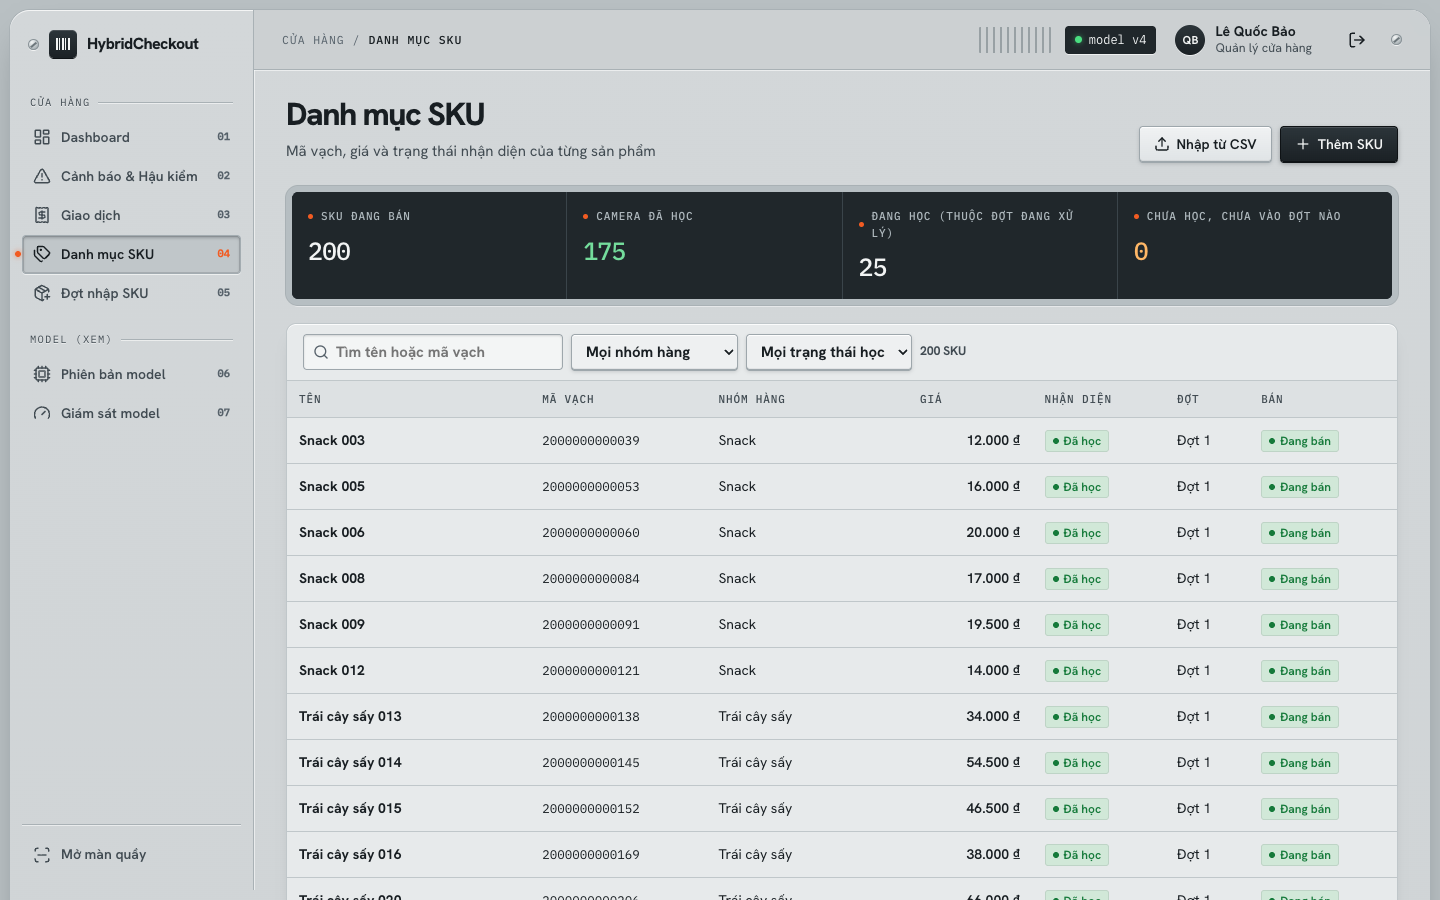
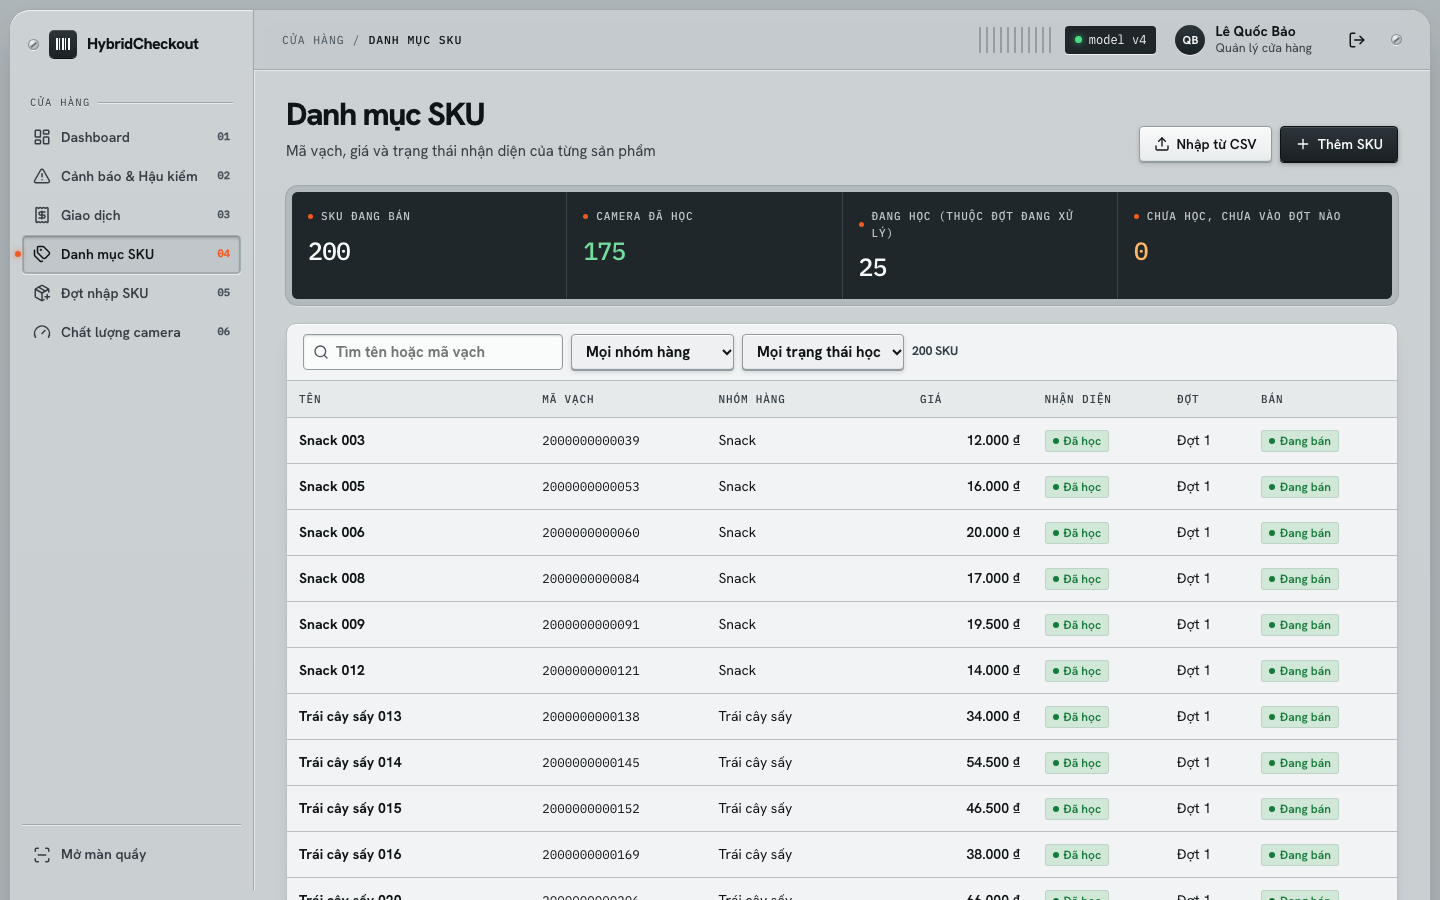
chore: update docs + fe

Changed region(s): [[0.0312, 0.3422, 0.125, 0.4667], [0.5, 0.3733, 0.6875, 0.4044], [0.6875, 0.9956, 0.7188, 1.0]]

diff --git a/frontend/src/styles/global.css b/frontend/src/styles/global.css
@@ -7,29 +7,29 @@
   --font-mono: "IBM Plex Mono", ui-monospace, SFMono-Regular, Menlo, monospace;
 
   /* Chassis materials */
-  --outer: #b9c0c3;
-  --chassis: #cbd0d2;
-  --raised: #e7eaeb;
-  --well: #b6bec2;
+  --outer: #adb5b9;
+  --chassis: #c8cdd0;
+  --raised: #f1f3f4;
+  --well: #b2babe;
   --field: #20272b;
-  --on-field: #f2f4f4;
-  --on-field-muted: #aeb8bd;
+  --on-field: #fafbfb;
+  --on-field-muted: #c0c8cc;
   --accent: #f15b22;
-  --edge: #9ea7ac;
-  --groove: #a9b1b5;
+  --edge: #929ca1;
+  --groove: #9fa8ad;
 
   --bg: var(--chassis);
   --surface: var(--raised);
-  --surface-2: #dde1e3;
-  --border: #c0c7ca;
+  --surface-2: #e7eaeb;
+  --border: #b8c0c4;
   --border-strong: var(--edge);
-  --text: #181e22;
-  --text-2: #414b52;
-  --text-3: #56616a;
+  --text: #0f1417;
+  --text-2: #343e44;
+  --text-3: #48535b;
 
   --primary: var(--field);
   --primary-hover: #2c353a;
-  --primary-soft: #d6dbdd;
+  --primary-soft: #dfe3e5;
 
   --ok: #157a3a;
   --ok-soft: #d1e8d8;
@@ -39,7 +39,7 @@
   --danger-soft: #f3d4cf;
   --info: #1e48c2;
   --info-soft: #d5dff2;
-  --neutral-soft: #d6dbdd;
+  --neutral-soft: #dfe3e5;
 
   --box-match: #16a34a;
   --box-alert: #dc2626;
@@ -49,7 +49,7 @@
 
   --radius: 10px;
   --radius-sm: 4px;
-  --key: linear-gradient(180deg, #f0f2f3, #e0e4e6);
+  --key: linear-gradient(180deg, #f9fafa, #e9eced);
   --key-shadow: inset 0 1px 0 rgb(255 255 255 / 95%), inset 0 -1px 0 rgb(24 30 34 / 6%), 0 1px 0 var(--edge), 0 2px 4px rgb(24 30 34 / 16%);
   --key-shadow-hover: inset 0 1px 0 rgb(255 255 255 / 95%), inset 0 -1px 0 rgb(24 30 34 / 6%), 0 2px 0 var(--edge), 0 4px 8px rgb(24 30 34 / 18%);
   --pressed: inset 0 2px 3px rgb(24 30 34 / 26%), inset 0 0 0 1px rgb(24 30 34 / 14%), 0 1px 0 rgb(255 255 255 / 60%);
@@ -129,7 +129,7 @@ button, input, select, textarea { font: inherit; color: inherit; }
 /* Inputs: shallow wells */
 .input, .select {
   height: 36px; padding: 0 10px; border-radius: var(--radius-sm);
-  border: 1px solid var(--edge); background: #f3f5f5; min-width: 0;
+  border: 1px solid var(--edge); background: #fafbfb; min-width: 0;
   box-shadow: inset 0 1px 2px rgb(24 30 34 / 16%);
 }
 .select { background-color: #eef0f1; box-shadow: var(--key-shadow); }
@@ -168,7 +168,7 @@ table.table { width: 100%; border-collapse: collapse; }
 .table tbody tr:last-child td { border-bottom: 0; }
 .table td.num { font-weight: 600; }
 .table tr.clickable { cursor: pointer; }
-.table tr.clickable:hover td { background: #dfe3e5; }
+.table tr.clickable:hover td { background: #e7eaeb; }
 .table tr.clickable:hover td:first-child { box-shadow: inset 3px 0 0 var(--accent); }
 .table a { text-decoration: none; }
 .table a:hover { text-decoration: underline; }
@@ -229,7 +229,7 @@ table.table { width: 100%; border-collapse: collapse; }
 
 /* Housing: the app sits in one rounded chassis */
 .housing {
-  margin: 10px; border-radius: 20px; background: linear-gradient(180deg, #d3d7d9, #c8cdcf 60%, #c4c9cb);
+  margin: 10px; border-radius: 20px; background: linear-gradient(180deg, #ccd1d4, #c1c7ca 60%, #bcc2c5);
   box-shadow: inset 0 1px 0 rgb(255 255 255 / 75%), 0 0 0 1px var(--groove), 0 18px 40px -16px rgb(24 30 34 / 45%);
 }
 
@@ -242,7 +242,7 @@ table.table { width: 100%; border-collapse: collapse; }
 }
 .brand { display: flex; align-items: center; gap: 10px; font-weight: 800; font-size: 16px; letter-spacing: -0.035em; color: var(--text); }
 .brand-mark { width: 28px; height: 28px; border-radius: 5px; background: linear-gradient(180deg, #2c353a, #1b2125); display: grid; place-items: center; flex-shrink: 0; box-shadow: inset 0 1px 0 rgb(255 255 255 / 14%), 0 1px 0 #0e1215; }
-.brand-mark i { display: block; width: 14px; height: 12px; background: repeating-linear-gradient(90deg, #f2f4f4 0 2px, transparent 2px 3px, #f2f4f4 3px 4px, transparent 4px 6px); }
+.brand-mark i { display: block; width: 14px; height: 12px; background: repeating-linear-gradient(90deg, var(--on-field) 0 2px, transparent 2px 3px, var(--on-field) 3px 4px, transparent 4px 6px); }
 .sidebar .head { display: flex; align-items: center; gap: 10px; padding: 4px 6px 18px; }
 .sidebar .group { font-family: var(--font-mono); font-size: 10.5px; text-transform: uppercase; letter-spacing: .12em; color: var(--text-2); text-shadow: 0 1px 0 rgb(255 255 255 / 60%); padding: 16px 8px 7px; display: flex; align-items: center; gap: 8px; }
 .sidebar .group::after { content: ""; flex: 1; height: 1px; background: var(--groove); box-shadow: 0 1px 0 rgb(255 255 255 / 55%); }
@@ -258,7 +258,7 @@ table.table { width: 100%; border-collapse: collapse; }
 .sidebar a.active::before { content: ""; position: absolute; left: -8px; top: 50%; width: 6px; height: 6px; margin-top: -3px; border-radius: 50%; background: var(--accent); box-shadow: 0 0 6px rgb(241 91 34 / 80%); }
 .sidebar .foot { border-top: 1px solid var(--groove); box-shadow: inset 0 1px 0 rgb(255 255 255 / 55%); padding-top: 10px; margin-top: 8px; display: flex; flex-direction: column; gap: 10px; }
 .topbar {
-  height: 60px; background: rgb(203 208 210 / 92%); backdrop-filter: blur(10px); border-bottom: 1px solid var(--groove); box-shadow: 0 1px 0 rgb(255 255 255 / 55%);
+  height: 60px; background: rgb(196 202 205 / 92%); backdrop-filter: blur(10px); border-bottom: 1px solid var(--groove); box-shadow: 0 1px 0 rgb(255 255 255 / 55%);
   display: flex; align-items: center; padding: 0 28px; gap: 14px; position: sticky; top: 0; z-index: 10; border-radius: 0 20px 0 0;
 }
 .crumb { display: flex; align-items: center; gap: 8px; font-family: var(--font-mono); font-size: 11.5px; text-transform: uppercase; letter-spacing: .08em; color: var(--text-3); }
@@ -299,10 +299,11 @@ table.table { width: 100%; border-collapse: collapse; }
 .scan-input {
   height: 56px; font-size: 20px; font-family: var(--font-mono); letter-spacing: .04em; padding: 0 16px; border-radius: 6px; width: 100%;
   border: 0; background: var(--field); color: var(--on-field); caret-color: var(--accent);
-  box-shadow: 0 0 0 5px var(--well), 0 0 0 6px var(--groove), inset 0 2px 6px rgb(0 0 0 / 50%);
+  box-shadow: inset 0 2px 6px rgb(0 0 0 / 50%), 0 1px 0 rgb(255 255 255 / 70%);
 }
+.field:has(> .scan-input) { gap: 10px; }
 .scan-input::placeholder { font-family: var(--font); letter-spacing: 0; color: #8d989e; font-size: 17px; }
-.scan-input:focus { outline: 2px solid var(--accent); outline-offset: 8px; }
+.scan-input:focus { outline: 2px solid var(--accent); outline-offset: 3px; }
 .line { display: grid; grid-template-columns: 1fr auto auto; gap: 10px; align-items: center; padding: 11px 16px; border-bottom: 1px solid var(--border); }
 .line .mono { color: var(--text-3); }
 .alert-card { border: 1px solid var(--border); border-left-width: 4px; border-radius: 6px; padding: 10px 12px; display: flex; flex-direction: column; gap: 6px; cursor: pointer; background: var(--key); box-shadow: var(--key-shadow); text-align: left; }
@@ -372,15 +373,15 @@ button.alert-card:disabled { cursor: default; opacity: .7; }
 /* Cutout review (L01) */
 .cutouts { display: grid; grid-template-columns: repeat(auto-fill, minmax(118px, 1fr)); gap: 8px; }
 .cutout { margin: 0; border: 2px solid var(--border); border-radius: 6px; overflow: hidden; background: var(--surface); }
-.cutout img { display: block; width: 100%; aspect-ratio: 1; object-fit: contain; background: #f3f5f5; }
+.cutout img { display: block; width: 100%; aspect-ratio: 1; object-fit: contain; background: #fafbfb; }
 .cutout figcaption { padding: 4px 6px; gap: 2px; }
 .cutout.accepted { border-color: var(--ok); }
 .cutout.rejected img { opacity: .4; }
 
 /* Proposal list (L02) */
 .prop { display: grid; grid-template-columns: minmax(0, 1fr) auto; gap: 8px; align-items: center; padding: 10px 12px 10px 16px; border-bottom: 1px solid var(--border); cursor: pointer; }
-.prop:hover { background: #dfe3e5; }
-.prop.sel { background: #d6dbdd; box-shadow: inset 3px 0 0 var(--accent); }
+.prop:hover { background: #e7eaeb; }
+.prop.sel { background: #dde1e3; box-shadow: inset 3px 0 0 var(--accent); }
 .prop .meta { display: flex; flex-wrap: wrap; align-items: center; gap: 4px 8px; margin-top: 3px; }
 .prop .score { font-family: var(--font-mono); font-size: 11.5px; color: var(--text-3); white-space: nowrap; }
 .prop .acts { display: flex; gap: 4px; }

diff --git a/frontend/src/features/store/DashboardPage.tsx b/frontend/src/features/store/DashboardPage.tsx
@@ -13,7 +13,8 @@ const RANGES = [{ days: 1, label: "Hôm nay" }, { days: 7, label: "7 ngày" }, {
 
 /** M01 — Store dashboard (US13). */
 export function DashboardPage() {
-  const { transactions, skus, isLearned, batches, activeBatch, counters, versionCreatedAt } = useStore();
+  const { user, transactions, skus, isLearned, batches, activeBatch, counters, versionCreatedAt } = useStore();
+  const isML = user?.role === "ML_ENGINEER";
   const navigate = useNavigate();
   const [days, setDays] = useState(7);
   const [counter, setCounter] = useState("ALL");
@@ -73,7 +74,9 @@ export function DashboardPage() {
           ]} />
         </Card>
         <div className="col" style={{ gap: 16 }}>
-          <Card title="Model đang chạy" actions={<Link to={`/models/v${activeBatch}`} className="small">Chi tiết</Link>}>
+          <Card title="Model đang chạy" actions={isML
+            ? <Link to={`/models/v${activeBatch}`} className="small">Chi tiết</Link>
+            : <Link to="/monitoring" className="small">Chất lượng camera</Link>}>
             <div className="col" style={{ gap: 6 }}>
               <span className="strong">{model.name}</span>
               <span className="small muted">Deploy {versionCreatedAt[model.id] ? dateTime(versionCreatedAt[model.id]) : "—"} · {model.skuCount} SKU</span>

diff --git a/frontend/src/features/store/BatchDetailPage.tsx b/frontend/src/features/store/BatchDetailPage.tsx
@@ -136,9 +136,9 @@ export function BatchDetailPage() {
               <div className="col" style={{ gap: 8 }}>
                 <div className="row"><span className="mono">{job.id}</span><span className="spacer" /><JobBadge status={job.status} /></div>
                 <Progress value={(job.epoch / job.epochs) * 100} />
-                <span className="small muted">Epoch {job.epoch}/{job.epochs} · {job.gpuHours} giờ GPU · bắt đầu {dateTime(job.startedAt)}</span>
+                <span className="small muted">{isML ? `Epoch ${job.epoch}/${job.epochs} · ${job.gpuHours} giờ GPU · ` : ""}bắt đầu {dateTime(job.startedAt)}</span>
                 {isML && <Link to="/jobs" className="small">Xem log</Link>}
-                {versionStatus[vid] !== "NOT_TRAINED" && <div className="row"><Link to={`/models/${vid}`}>Phiên bản {vid}</Link><span className="spacer" /><VersionBadge status={versionStatus[vid]} /></div>}
+                {versionStatus[vid] !== "NOT_TRAINED" && <div className="row">{isML ? <Link to={`/models/${vid}`}>Phiên bản {vid}</Link> : <span>Phiên bản {vid}</span>}<span className="spacer" /><VersionBadge status={versionStatus[vid]} /></div>}
               </div>
             ) : <span className="small muted">Chưa có job.</span>}
           </Card>

diff --git a/frontend/src/App.tsx b/frontend/src/App.tsx
@@ -79,8 +79,8 @@ export default function App() {
             <Route path="/batches/:id/samples" element={<Allow roles={MML}><SamplesPage /></Allow>} />
             <Route path="/batches/:id/label" element={<Allow roles={ML}><LabelingPage /></Allow>} />
             <Route path="/jobs" element={<Allow roles={ML}><JobsPage /></Allow>} />
-            <Route path="/models" element={<Allow roles={MML}><ModelsPage /></Allow>} />
-            <Route path="/models/:id" element={<Allow roles={MML}><ModelDetailPage /></Allow>} />
+            <Route path="/models" element={<Allow roles={ML}><ModelsPage /></Allow>} />
+            <Route path="/models/:id" element={<Allow roles={ML}><ModelDetailPage /></Allow>} />
             <Route path="/thresholds" element={<Allow roles={ML}><ThresholdsPage /></Allow>} />
             <Route path="/monitoring" element={<Allow roles={MML}><MonitoringPage /></Allow>} />
             <Route path="/admin/users" element={<Allow roles={AD}><UsersPage /></Allow>} />

diff --git a/frontend/src/features/ml/MonitoringPage.tsx b/frontend/src/features/ml/MonitoringPage.tsx
@@ -41,7 +41,7 @@ export function MonitoringPage() {
 
   return (
     <>
-      <PageHeader title="Giám sát model" sub="Chất lượng nhận diện ngoài thực tế, từ cảnh báo, hậu kiểm và bản sửa ở làn nhanh" />
+      <PageHeader title={user?.role === "STORE_MANAGER" ? "Chất lượng camera" : "Giám sát model"} sub="Chất lượng nhận diện ngoài thực tế, từ cảnh báo, hậu kiểm và bản sửa ở làn nhanh" />
       <DemoNote>Độ trễ là số giả lập. Các tỉ lệ khác tính từ giao dịch giả lập của prototype.</DemoNote>
       <div className="stats">
         <Stat label="Độ trễ nhận diện trung vị" value={`${last.latency.toFixed(2).replace(".", ",")} giây`} hint="mục tiêu ≤ 3 giây (G5)" />

diff --git a/frontend/src/features/ml/JobsPage.tsx b/frontend/src/features/ml/JobsPage.tsx
@@ -31,7 +31,7 @@ export function JobsPage() {
           {open ? (
             <div className="col" style={{ gap: 10 }}>
               <div className="row"><JobBadge status={open.status} /><span className="spacer" /><span className="small muted">Đợt {open.batch} · {open.epochs} epoch</span></div>
-              <pre className="mono" style={{ background: "#20272b", color: "#f2f4f4", padding: 12, borderRadius: 8, maxHeight: 320, overflow: "auto", margin: 0, whiteSpace: "pre-wrap" }}>
+              <pre className="mono" style={{ background: "#20272b", color: "#fafbfb", padding: 12, borderRadius: 8, maxHeight: 320, overflow: "auto", margin: 0, whiteSpace: "pre-wrap" }}>
                 {open.log.join("\n")}
               </pre>
               <div className="row">

diff --git a/frontend/src/layouts/AdminLayout.tsx b/frontend/src/layouts/AdminLayout.tsx
@@ -20,10 +20,7 @@ export const NAV: Record<Exclude<Role, "CASHIER">, Group[]> = {
       { to: "/transactions", label: "Giao dịch", icon: <Receipt size={18} /> },
       { to: "/skus", label: "Danh mục SKU", icon: <Tags size={18} /> },
       { to: "/batches", label: "Đợt nhập SKU", icon: <PackagePlus size={18} /> },
-    ] },
-    { title: "Model (xem)", items: [
-      { to: "/models", label: "Phiên bản model", icon: <Cpu size={18} /> },
-      { to: "/monitoring", label: "Giám sát model", icon: <Gauge size={18} /> },
+      { to: "/monitoring", label: "Chất lượng camera", icon: <Gauge size={18} /> },
     ] },
   ],
   ML_ENGINEER: [

diff --git a/docs/03-information-architecture.md b/docs/03-information-architecture.md
@@ -54,7 +54,7 @@ Mã màn hình: **S** chung · **P** quầy (POS) · **M** quản lý cửa hàn
 | Vai trò | Trang mặc định | Menu |
 |---|---|---|
 | Thu ngân | P01 Mở ca (P02 nếu đã có ca) | Không có sidebar. Thanh trên màn quầy có: Lịch sử ca, Đăng xuất |
-| Quản lý | M01 Dashboard | **Cửa hàng:** Dashboard · Cảnh báo · Giao dịch · Danh mục SKU · Đợt nhập — **Model (xem):** Phiên bản · Giám sát — nút **Mở màn quầy** |
+| Quản lý | M01 Dashboard | **Cửa hàng:** Dashboard · Cảnh báo · Giao dịch · Danh mục SKU · Đợt nhập · Chất lượng camera (L07, chỉ xem) — nút **Mở màn quầy** |
 | Kỹ sư ML | L04 Phiên bản model | **Model:** Phiên bản · Job · Ngưỡng · Giám sát — **Dữ liệu:** Đợt nhập · Danh mục SKU · Dashboard |
 | Quản trị viên | A01 Người dùng | Người dùng · Quầy & Camera · Nhật ký · Cài đặt lưu trữ |
 
@@ -153,7 +153,7 @@ Cùng bố cục với P02, thứ tự ngược lại: nhận diện trước, q
 | Bộ lọc | Hôm nay / 7 ngày / 30 ngày; quầy | ✏ | ✏ |
 | Thẻ chỉ số | Doanh thu · Giá trị món chưa quét đã phát hiện · Khay có cảnh báo · Tỉ lệ báo nhầm · Độ phủ SKU | 👁 | 👁 |
 | Biểu đồ | Cảnh báo theo ngày, theo loại | 👁 | 👁 |
-| Model & đợt nhập | Model đang chạy; đợt nhập đang xử lý và tiến độ | 👁 | 👁 |
+| Model & đợt nhập | Model đang chạy (QL → L07, ML → L05); đợt nhập đang xử lý và tiến độ | 👁 | 👁 |
 | Chờ hậu kiểm | 5 báo nhầm ưu tiên cao nhất (BR-17) → M03 | ✏ | 👁 |
 
 ### M02 — Cảnh báo & Hậu kiểm · `/alerts`
@@ -208,7 +208,7 @@ Cùng bố cục với P02, thứ tự ngược lại: nhận diện trước, q
 | 1. Ảnh mẫu → ảnh ghép | Điều kiện đã đạt; **Mở ảnh mẫu** → L01 | ✏ | ✏ |
 | 2. Ảnh thật → tập kiểm tra | Tiến độ hàng đợi; **Gán nhãn ảnh thật** → L02 | 👁 | ✏ |
 | Gửi huấn luyện | Bật khi đạt BR-11; tùy chọn trộn ảnh thật vượt mức (BR-16) | — | ✏ |
-| Job & phiên bản | Job của đợt, phiên bản sinh ra → L05 | 👁 | 👁 |
+| Job & phiên bản | Job của đợt, phiên bản sinh ra. QL chỉ thấy trạng thái; ML thấy epoch, giờ GPU, log và mở L05 | 👁 | 👁 |
 
 ## 7. Khu vực Quản trị — Model
 
@@ -240,19 +240,19 @@ Bố cục 3 cột: hàng mới cần vẽ · ảnh · danh sách box. Ảnh lư
 | Chi tiết | Log; Hủy / Chạy lại | ✏ |
 
 ### L04 — Phiên bản model · `/models`
-| Section | Nội dung | ML | QL |
-|---|---|:-:|:-:|
-| Thẻ chỉ số | Phiên bản đang chạy, số SKU, AP50, cAcc | 👁 | 👁 |
-| Biểu đồ | AP50 và cAcc qua các phiên bản, kèm giải thích | 👁 | 👁 |
-| Dòng thời gian + bảng | Mọi phiên bản, trạng thái, kết quả cổng duyệt → L05 | 👁 | 👁 |
+| Section | Nội dung | ML |
+|---|---|:-:|
+| Thẻ chỉ số | Phiên bản đang chạy, số SKU, AP50, cAcc | 👁 |
+| Biểu đồ | AP50 và cAcc qua các phiên bản, kèm giải thích | 👁 |
+| Dòng thời gian + bảng | Mọi phiên bản, trạng thái, kết quả cổng duyệt → L05 | 👁 |
 
 ### L05 — Chi tiết phiên bản & Cổng duyệt · `/models/:id`
-| Section | Nội dung | ML | QL |
-|---|---|:-:|:-:|
-| Cổng duyệt | Từng điều kiện: giá trị mới · bản đang chạy · Đạt / Không đạt | 👁 | 👁 |
-| Thông tin | Đợt, số SKU, cAcc, giờ GPU, job | 👁 | 👁 |
-| Cặp hay nhầm | Top cặp SKU nhầm trên val | 👁 | 👁 |
-| Hành động | **Deploy** (xác nhận; ghi lý do nếu không đạt) · **Từ chối** · **Rollback** | ✏ | — |
+| Section | Nội dung | ML |
+|---|---|:-:|
+| Cổng duyệt | Từng điều kiện: giá trị mới · bản đang chạy · Đạt / Không đạt | 👁 |
+| Thông tin | Đợt, số SKU, cAcc, giờ GPU, job | 👁 |
+| Cặp hay nhầm | Top cặp SKU nhầm trên val | 👁 |
+| Hành động | **Deploy** (xác nhận; ghi lý do nếu không đạt) · **Từ chối** · **Rollback** | ✏ |
 
 ### L06 — Ngưỡng nhận diện · `/thresholds`
 | Section | Nội dung | ML |
@@ -262,6 +262,9 @@ Bố cục 3 cột: hàng mới cần vẽ · ảnh · danh sách box. Ảnh lư
 | Lịch sử | Các lần đổi; Hoàn tác | ✏ |
 
 ### L07 — Giám sát model · `/monitoring`
+
+Quản lý vào màn này qua mục **Chất lượng camera**: cùng nội dung, chỉ xem, không có hành động và gợi ý dành cho kỹ sư ML. Quản lý không thấy L04, L05 vì đó là chỉ số kỹ thuật dùng để deploy.
+
 | Section | Nội dung | ML | QL |
 |---|---|:-:|:-:|
 | Thẻ chỉ số | Độ trễ, khay có cảnh báo, báo nhầm, % tự nhận | 👁 | 👁 |
@@ -290,7 +293,8 @@ Bố cục 3 cột: hàng mới cần vẽ · ảnh · danh sách box. Ảnh lư
 | M07, M08 Đợt nhập | — | ✏ | ✏ | — |
 | L01 Ảnh mẫu | — | ✏ (tải ảnh) | ✏ | — |
 | L02 Gán nhãn, L03 Job, L06 Ngưỡng | — | — | ✏ | — |
-| L04, L05 Phiên bản, L07 Giám sát | — | 👁 | ✏ | — |
+| L04, L05 Phiên bản | — | — | ✏ | — |
+| L07 Giám sát (QL: Chất lượng camera) | — | 👁 | ✏ | — |
 | A01, A02, A04 | — | — | — | ✏ |
 | A03 Nhật ký | — | 👁 | — | 👁 |
 

diff --git a/docs/07-c4.md b/docs/07-c4.md
@@ -87,7 +87,7 @@ flowchart TB
 | Backend API | **Ranh giới tin cậy duy nhất**: xác thực, phân quyền, mọi quy tắc BR, đối chiếu khay (UC07), ghi nhật ký | — |
 | Worker | Job CPU chạy nền và định kỳ (Celery beat): cắt nền qua dịch vụ nhận diện, ghép ảnh, xóa ảnh theo BR-13, heartbeat camera | Không làm chậm request tại quầy |
 | Trainer | Huấn luyện và đánh giá trên GPU; ghi tiến độ job và phiên bản model | Chiếm GPU hàng giờ; chạy được trên máy GPU khác |
-| Dịch vụ nhận diện | Suy luận nhanh, giữ model trong bộ nhớ GPU; không biết nghiệp vụ, không vào DB (D07) | Đổi model không cần sửa backend; khởi động lại không ảnh hưởng quầy |
+| Dịch vụ nhận diện | Suy luận nhanh, giữ model trong bộ nhớ GPU; không biết nghiệp vụ, không vào DB | Đổi model không cần sửa backend; khởi động lại không ảnh hưởng quầy |
 | PostgreSQL | Dữ liệu nghiệp vụ, ràng buộc toàn vẹn (Bước 5) | — |
 | Redis | Broker Celery; trạng thái ngắn hạn có TTL | Không đưa dữ liệu tạm vào DB |
 | Kho ảnh S3 | File nhị phân; DB chỉ giữ khóa (`image_key`, `checkpoint_uri`) | Ảnh lớn, xóa theo hạn |

diff --git a/README.md b/README.md
@@ -198,7 +198,8 @@ Mọi vai trò dùng chung UC01 Đăng nhập, UC02 Đăng xuất, UC03 Hồ sơ
 | Tạo đợt nhập | | ✓ | | |
 | Tải ảnh mẫu | | ✓ | ✓ | |
 | Duyệt ảnh cắt, tạo ảnh ghép, gán nhãn ảnh thật, gửi huấn luyện | | | ✓ | |
-| Job, phiên bản model, giám sát | | Xem | ✓ | |
+| Job, phiên bản model | | | ✓ | |
+| Giám sát model (với Quản lý: Chất lượng camera) | | Xem | ✓ | |
 | Deploy / rollback, ngưỡng | | | ✓ | |
 | Người dùng, quầy/camera, lưu dữ liệu | | | | ✓ |
 | Nhật ký | | Của cửa hàng | | ✓ |
@@ -239,7 +240,7 @@ S01 Đăng nhập · S03 Không có quyền (khi mở trang ngoài quyền)
 | Vai trò | Trang mặc định | Menu |
 |---|---|---|
 | Thu ngân | P01 Mở ca (P02 nếu đã có ca) | Không có sidebar; thanh trên có Lịch sử ca, Đăng xuất |
-| Quản lý | M01 Dashboard | Cửa hàng · Model (xem) · nút Mở màn quầy |
+| Quản lý | M01 Dashboard | Cửa hàng (gồm Chất lượng camera, chỉ xem) · nút Mở màn quầy |
 | Kỹ sư ML | L04 Phiên bản model | Model · Dữ liệu (Đợt nhập, Danh mục SKU, Dashboard) |
 | Quản trị viên | A01 Người dùng | Người dùng · Quầy & Camera · Nhật ký · Cài đặt |
 

diff --git a/docs/02-use-case-user-stories.md b/docs/02-use-case-user-stories.md
@@ -364,7 +364,8 @@ Phiên bản mới (sau job huấn luyện) ở trạng thái **Chờ duyệt**.
 | Tạo đợt nhập | | ✓ | | |
 | Tải ảnh mẫu | | ✓ | ✓ | |
 | Duyệt ảnh cắt, tạo ảnh ghép, gán nhãn ảnh thật, gửi huấn luyện | | | ✓ | |
-| Job, phiên bản model, giám sát | | Xem | ✓ | |
+| Job, phiên bản model | | | ✓ | |
+| Giám sát model (với Quản lý: Chất lượng camera) | | Xem | ✓ | |
 | Deploy / rollback, ngưỡng | | | ✓ | |
 | Người dùng, quầy/camera, lưu dữ liệu | | | | ✓ |
 | Nhật ký | | Của cửa hàng | | ✓ |
